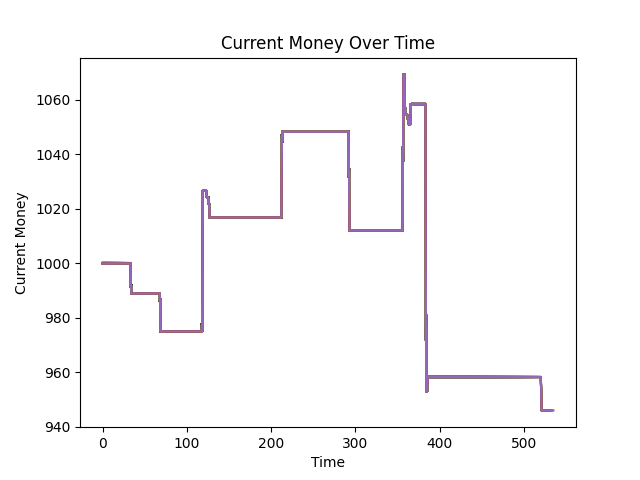
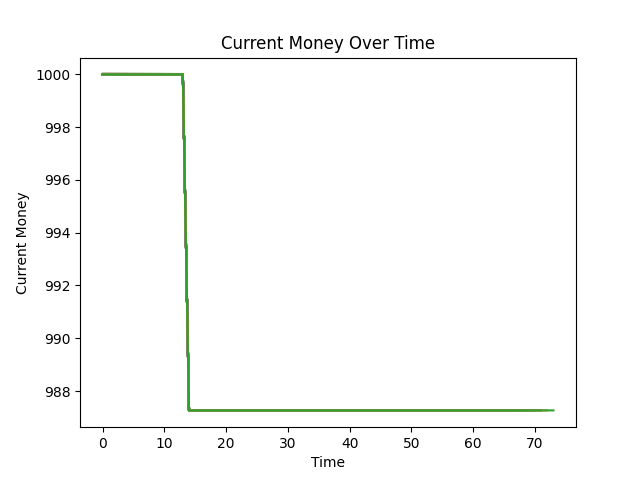
5min bot

diff --git a/python/brunix/Indicators.py b/python/brunix/Indicators.py
@@ -1,0 +1,203 @@
+import pandas as pd
+import talib
+import numpy as np
+from io import StringIO
+import time
+import matplotlib.pyplot as plt
+
+# Simulated loading your CSV data into a DataFrame
+file_path = './csv/market_data.csv'  # Make sure the file path is correct
+df = pd.read_csv(file_path)
+
+
+# Create DataFrame from the data string
+
+# Convert 'real_price' column to a numpy array
+#df = df1['real_price'].values
+
+"""def delete_processed_lines(file_path, lines_to_delete=10):
+    #Deletes the first N lines of the CSV file after they have been processed.
+    with open(file_path, 'r') as file:
+        lines = file.readlines()
+
+    # Keep the header and the lines after the first N
+    with open(file_path, 'w') as file:
+        file.writelines(lines[:1] + lines[lines_to_delete + 1:])"""
+
+global open_position, entry_price, last_action
+global leverage_money, current_btc, entry_value, risk, stop_loss, leverage, current_money
+
+open_position = None
+entry_price = None
+last_action = None
+leverage_money = 0  # Example starting money
+leverage = 100 # Example leverage
+current_money = 1000 # Example starting money
+current_btc = 0  # Example starting BTC amount
+initial_value = 1000 # Example initial value
+risk = 1  # Example risk level
+stop_loss = 0.1  # Example stop loss level
+
+current_money_list = []
+current_money_list.append(current_money)
+
+
+def weighted_signal_decision_with_close_and_performance(df):
+    global open_position, entry_price, last_action
+    global leverage_money, current_btc, initial_value, risk, stop_loss, leverage_money, current_money
+    
+    df_high = high_risk_scalping_strategy(df.copy()).rename(columns={'Signal': 'Signal_High'})
+    df_medium = medium_risk_scalping_strategy(df.copy()).rename(columns={'Signal': 'Signal_Medium'})
+    df_low = low_risk_scalping_strategy(df.copy()).rename(columns={'Signal': 'Signal_Low'})
+    
+    combined_df = df_high[['Signal_High', 'real_price']].join([df_medium[['Signal_Medium']], df_low[['Signal_Low']]])
+   
+    for start in range(0, len(combined_df), 100):
+        subset = combined_df.iloc[start:start+100]
+
+        weighted_signal = (subset['Signal_High'].sum() * 0.2 + 
+                           subset['Signal_Medium'].sum() * 0.3 +
+                           subset['Signal_Low'].sum() * 0.5) / 10
+        
+        last_price = subset['real_price'].iloc[-1]  
+        
+        if weighted_signal > 0:
+            if open_position != 'Buy':
+                # Potential buy signal
+                if open_position == 'Sell':
+                    # Close sell before buying
+                    sell_amount = current_btc
+                    current_btc = 0
+                    leverage_money += (sell_amount * last_price)
+                    current_money += leverage_money
+                    print("Profit Made: ", leverage_money)
+                    leverage_money = 0
+                    print_close_position(start, 'Sell', entry_price, last_price)
+                # Check if we're not repeating the same action
+                if last_action != 'open_buy':
+                    buy_amount = (current_money * risk * leverage) / last_price
+                    current_btc += buy_amount
+                    leverage_money -= buy_amount * last_price 
+                    print_open_position(start, 'Buy', last_price)
+                    open_position, entry_price, last_action = 'Buy', last_price, 'open_buy'
+                    
+        elif weighted_signal < 0:
+            if open_position != 'Sell':
+                # Potential sell signal
+                if open_position == 'Buy':
+                    # Close buy before selling
+                    buy_amount = current_btc
+                    current_btc = 0
+                    leverage_money += buy_amount * last_price
+                    current_money += leverage_money
+                    print("Profit Made: ", leverage_money)
+                    leverage_money = 0
+                    print_close_position(start, 'Buy', entry_price, last_price)
+                # Check if we're not repeating the same action
+                if last_action != 'open_sell':
+                    sell_amount = (current_money * risk * leverage) / last_price
+                    leverage_money += sell_amount * last_price
+                    current_btc -= sell_amount
+                    print_open_position(start, 'Sell', last_price)
+                    open_position, entry_price, last_action = 'Sell', last_price, 'open_sell'
+                
+        elif abs(weighted_signal) < 0.1 and open_position:
+            # Close existing position due to weak signal
+            if last_action not in ['close_buy', 'close_sell']:
+                performance = (last_price - entry_price) if open_position == 'Buy' else (entry_price - last_price)
+                print_close_position(start, open_position, entry_price, last_price)
+                amount = current_btc
+                current_btc = 0
+                leverage_money += amount * last_price
+                current_money += leverage_money
+                print("Profit Made: ", leverage_money)
+                leverage_money = 0
+                open_position, entry_price, last_action = None, None, f"close_{open_position.lower()}"
+
+# Helper functions remain unchanged
+
+        # Additional logic to handle closing positions on weak signals...
+        
+#def calculate_weighted_signal(df):
+    # Placeholder for your real weighted signal calculation
+ #   return df['Signal'].mean()  # Simplified example
+
+def process_data():
+    global leverage_money
+    while True:
+        df = pd.read_csv(file_path)
+        
+        
+
+        if len(df) < 100:  # Ensure there's more than just the header
+            continue  # Wait for more data
+
+        current_money_list.append(current_money)
+        plt.plot(current_money_list)
+        plt.xlabel('Time')
+        plt.ylabel('Current Money')
+        plt.title('Current Money Over Time')
+        plt.savefig('current_money.png')
+
+        # Process the first 10 lines of data
+        subset = df.iloc[1:101]  # Skip header, process next 10
+        weighted_signal_decision_with_close_and_performance(subset)
+        # Function to delete the first 10 lines of actual data (after header)
+        time.sleep(3)
+
+        #delete_processed_lines(file_path, 10)
+
+        # Here you can add a delay or a condition to exit the loop
+
+def print_open_position(index, position, price):
+    print(f"Opening {position} with price {price:.2f}")
+
+def print_close_position(index, position, entry, last):
+    performance = (last - entry) if position == 'Buy' else (entry - last)
+    print(f"Closing {position} Performance: {performance:.2f}")
+
+
+def high_risk_scalping_strategy(df):
+    # Fast MACD for momentum, using real_price
+    df['MACD'], df['MACD_signal'], _ = talib.MACD(df['real_price'], fastperiod=10, slowperiod=20, signalperiod=5)
+    # RSI to avoid overbought situations, using real_price
+    df['RSI'] = talib.RSI(df['real_price'], timeperiod=30)
+    
+    # Entry signal: MACD above signal and RSI not overbought
+    df['Signal'] = np.where((df['MACD'] > df['MACD_signal']) & (df['RSI'] < 70), 1,
+                            np.where((df['MACD'] < df['MACD_signal']) | (df['RSI'] > 70), -1, 0))
+    return df
+
+
+def medium_risk_scalping_strategy(df):
+    # Short and medium EMAs to identify trend, using real_price
+    df['EMA_fast'] = talib.EMA(df['real_price'], timeperiod=50)
+    df['EMA_slow'] = talib.EMA(df['real_price'], timeperiod=70)
+    
+    # Entry signal: EMA_fast crosses above EMA_slow
+    df['Signal'] = np.where((df['EMA_fast'] > df['EMA_slow']), 1,
+                            np.where((df['EMA_fast'] < df['EMA_slow']), -1, 0))
+    return df
+
+
+def low_risk_scalping_strategy(df):
+    # RSI for market condition, using real_price
+    df['RSI'] = talib.RSI(df['real_price'], timeperiod=100)
+    
+    # Entry signals based on RSI staying in a safer range
+    df['Signal'] = np.where(df['RSI'] > 40, np.where(df['RSI'] < 60, 1, -1), 0)
+    return df
+
+
+#print(high_risk_scalping_strategy(df))
+#print(medium_risk_scalping_strategy(df))
+#print(low_risk_scalping_strategy(df))
+# Calculate indicators
+#sma = talib.SMA(real_prices, timeperiod=5)
+#ema = talib.EMA(real_prices, timeperiod=5)
+#rsi = talib.RSI(real_prices, timeperiod=7)
+
+# Example output
+#print("SMA:", sma)
+#print("EMA:", ema)
+#print("RSI:", rsi)

diff --git a/python/brunix/data.py b/python/brunix/data.py
@@ -3,10 +3,12 @@ from api import *
 from datetime import datetime
 import time
 import os
+import csv
 
 def data_to_csv():
     # Get the current time
     now = datetime.now()
+    max_size = 100
     
     # Fetch market data for BTC; assuming this returns a dictionary
     market_data = nft_stats('BTC')
@@ -15,12 +17,12 @@ def data_to_csv():
         market_data['real_price'] = (float(market_data['ask']) + float(market_data['bid'])) / 2
         # Create a DataFrame from the market data dictionary
         df = pd.DataFrame([market_data])
-    
+
         # Insert the DateTime column at the first position
         df.insert(0, 'DateTime', now)
-        
+
         file_path = './csv/market_data.csv'
-    
+
         # Check if the file exists to determine if the header should be written
         if os.path.exists(file_path):
             # Append data without header
@@ -28,7 +30,20 @@ def data_to_csv():
         else:
             # Write new file with header
             df.to_csv(file_path, mode='w', header=True, index=False)
-    
+
+        with open(file_path, 'r') as f:
+            data = list(csv.reader(f))
+            size = len(data)
+
+        if size > max_size:
+            # Remove the second row
+            data.pop(1)
+
+            # Write the data back to the CSV file
+            with open(file_path, 'w', newline='') as f:
+                writer = csv.writer(f)
+                writer.writerows(data)
+
         print(f"Data appended to {file_path}.")
     else:
         print("Failed to fetch market data.")

diff --git a/python/brunix/main.py b/python/brunix/main.py
@@ -1,0 +1,29 @@
+import pandas as pd
+import time
+from Indicators import *
+
+
+
+# Placeholder for your actual trading algorithm function
+def execute_trading_algorithm(df):
+    # This function would contain the logic provided in the previous examples
+    # For this example, let's just print something to demonstrate execution
+    print("Executing trading algorithm...")
+    # Implement the weighted_signal_decision_with_close_and_performance logic here
+    # and make your trading decision based on the output
+
+def main():
+    csv_file_path = './csv/market_data.csv'  # Path to your CSV file
+
+    while True:
+        # Load the updated DataFrame
+        df = pd.read_csv(csv_file_path)
+        
+        # Check if 10 new prices have been added since last check
+        if len(df)  >= 90:
+            # Execute your trading algorithm
+            process_data()
+
+
+if __name__ == "__main__":
+    main()
